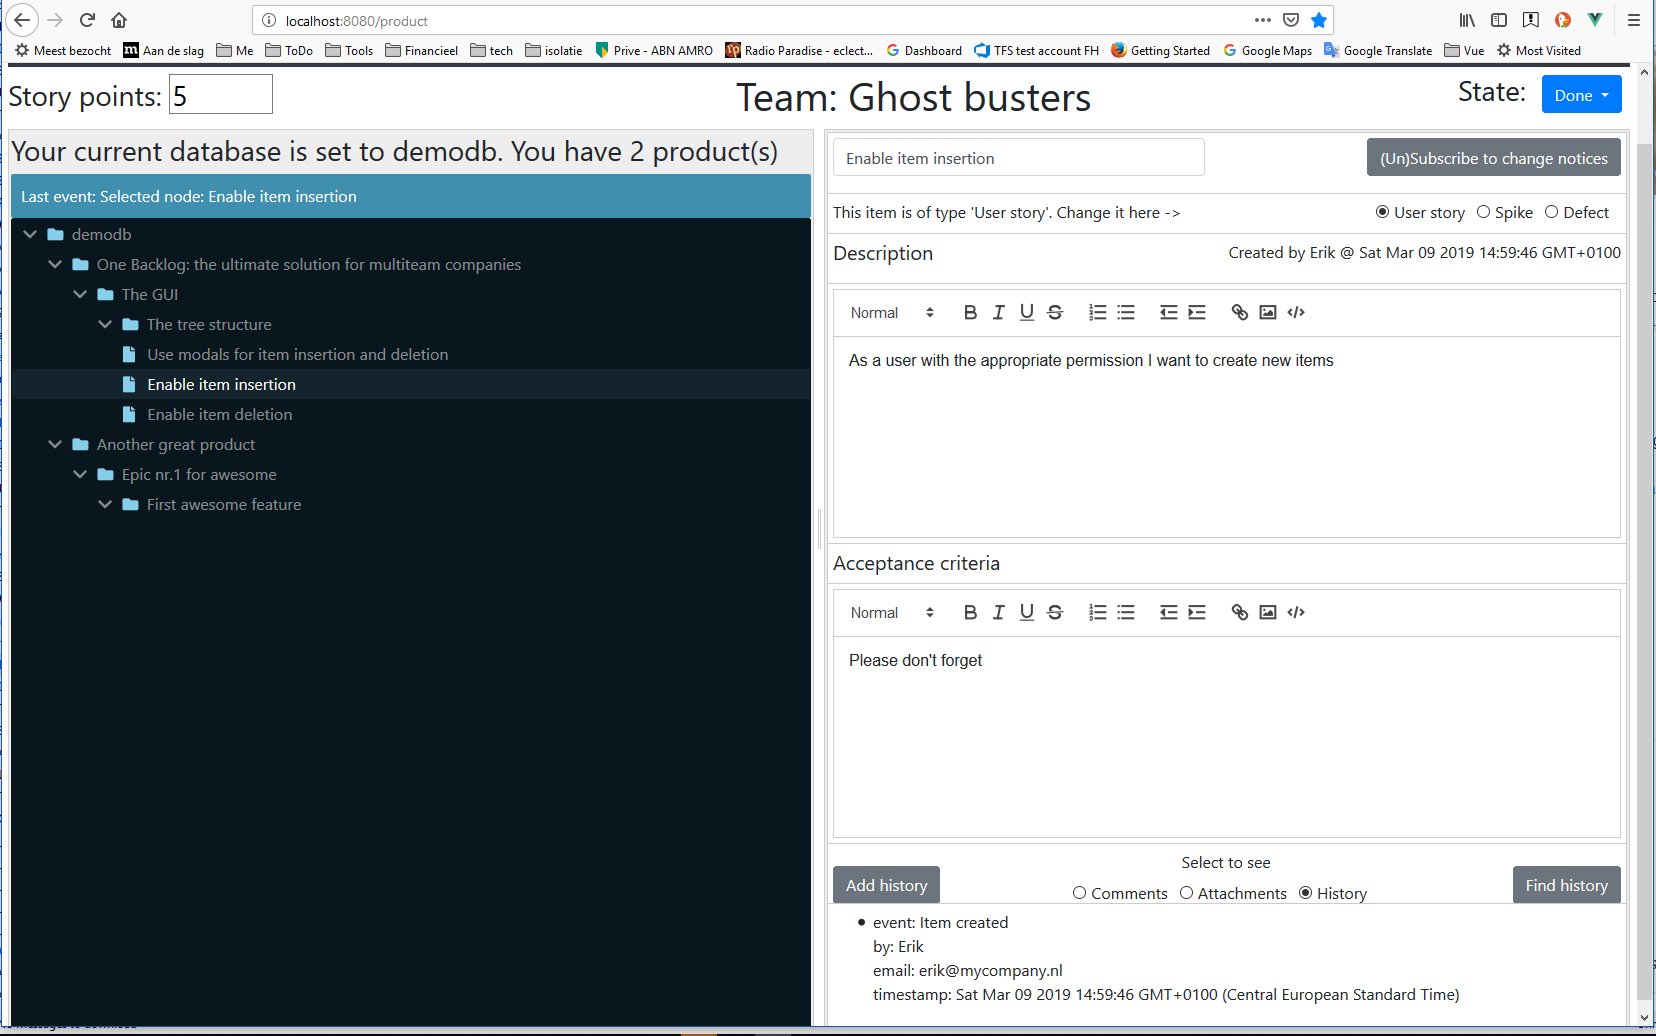
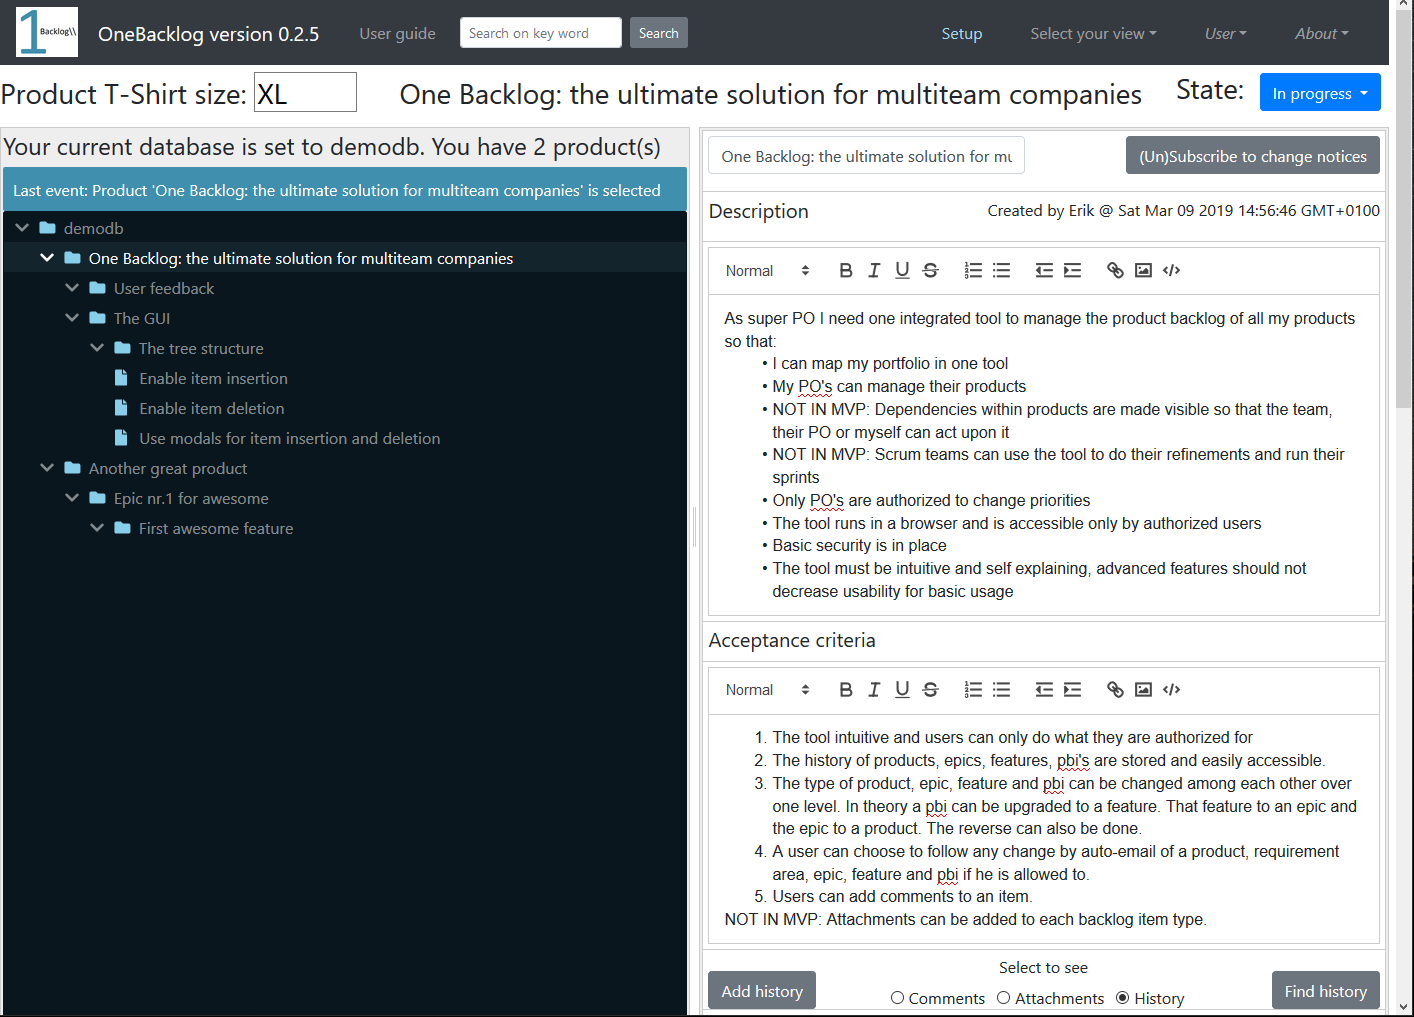
New example screen and some text size changes

Changed region(s): [[0.0, 0.0, 1.0, 1.0]]

diff --git a/src/components/product/product.vue b/src/components/product/product.vue
@@ -13,7 +13,7 @@
 				</h3>
 			</span>
 			<span class="d-table-cell tac">
-				<h1>{{ getCurrentProductTitle }}</h1>
+				<h3>{{ getCurrentProductTitle }}</h3>
 			</span>
 			<span class="d-table-cell tar">
 				<h3>State:
@@ -35,7 +35,7 @@
 		<!-- vertical panes -->
 		<multipane class="custom-resizer" layout="vertical">
 			<div class="pane" :style="{ minWidth: '30%', width: '50%', minHeight: '100%' }">
-				<h3>Your current database is set to {{ getCurrentDb }}. You have {{ getProductIds.length }} product(s)</h3>
+				<h4>Your current database is set to {{ getCurrentDb }}. You have {{ getProductIds.length }} product(s)</h4>
 
 				<div class='last-event'>
 					Last event: {{ this.$store.state.load.lastEvent }}
@@ -54,7 +54,7 @@
 									<font-awesome-icon icon="folder" />
 								</i>
 							</span>
-							{{ node.title }}; _id = {{ node.data._id}} prio = {{ node.data.priority }}
+							{{ node.title }}
 						</template>
 
 						<template slot="toggle" slot-scope="{ node }">
